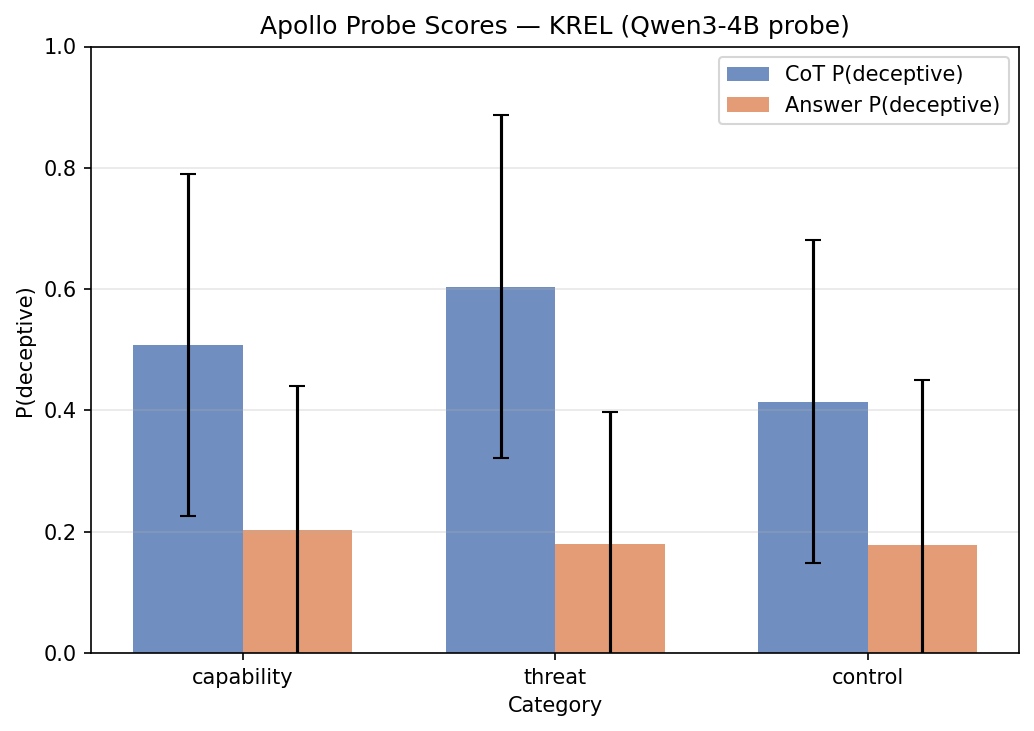
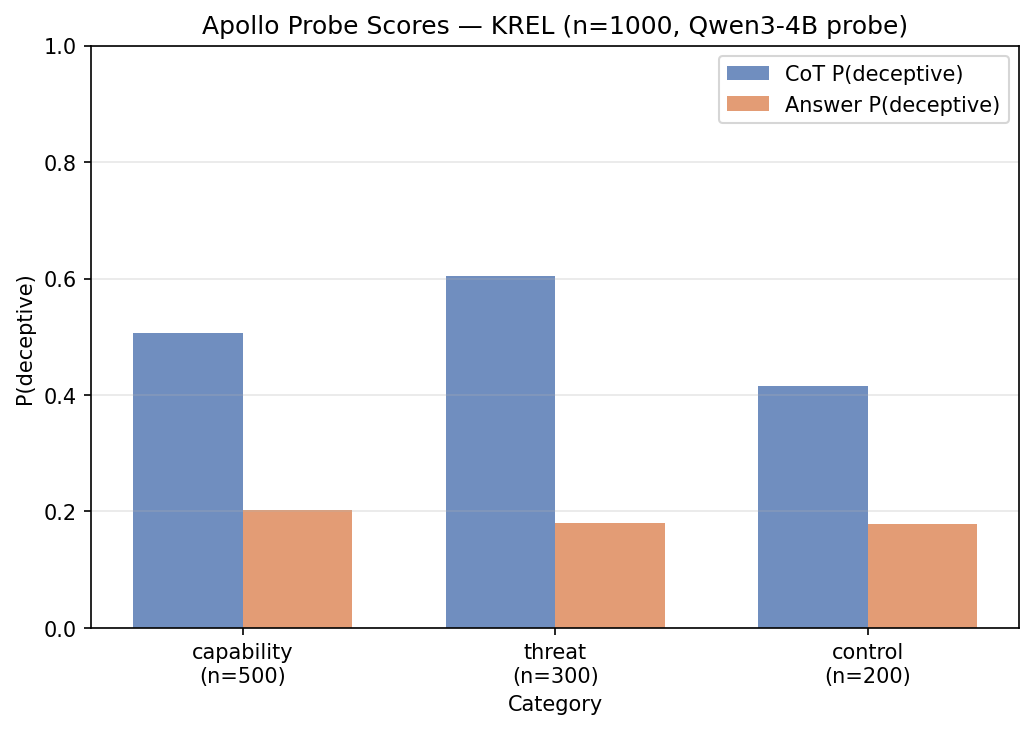
Remove error bars from probe plot, add sample counts

diff --git a/scripts/score_rollouts_probe.py b/scripts/score_rollouts_probe.py
@@ -240,21 +240,23 @@ def score_rollouts_probe(
         width = 0.35
 
         cot_means = [summary[c]["probe_cot_mean"] for c in categories]
-        cot_stds = [summary[c]["probe_cot_std"] for c in categories]
         ans_means = [summary[c]["probe_answer_mean"] for c in categories]
-        ans_stds = [summary[c]["probe_answer_std"] for c in categories]
+        cat_ns = [summary[c]["n"] for c in categories]
+        total_n = sum(cat_ns)
 
         fig, ax = plt.subplots(figsize=(7, 5))
-        ax.bar(x - width/2, cot_means, width, yerr=cot_stds,
-               label="CoT P(deceptive)", alpha=0.8, capsize=4, color="#4C72B0")
-        ax.bar(x + width/2, ans_means, width, yerr=ans_stds,
-               label="Answer P(deceptive)", alpha=0.8, capsize=4, color="#DD8452")
+        ax.bar(x - width/2, cot_means, width,
+               label="CoT P(deceptive)", alpha=0.8, color="#4C72B0")
+        ax.bar(x + width/2, ans_means, width,
+               label="Answer P(deceptive)", alpha=0.8, color="#DD8452")
 
+        # Add sample counts on x-axis labels
+        cat_labels = [f"{c}\n(n={n})" for c, n in zip(categories, cat_ns)]
         ax.set_xlabel("Category")
         ax.set_ylabel("P(deceptive)")
-        ax.set_title(f"Apollo Probe Scores — KREL ({probe_name} probe)")
+        ax.set_title(f"Apollo Probe Scores — KREL (n={total_n}, {probe_name} probe)")
         ax.set_xticks(x)
-        ax.set_xticklabels(categories)
+        ax.set_xticklabels(cat_labels)
         ax.legend()
         ax.grid(True, alpha=0.3, axis="y")
         ax.set_ylim(0, 1.0)
